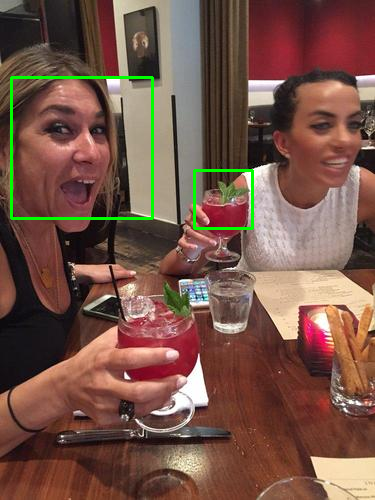
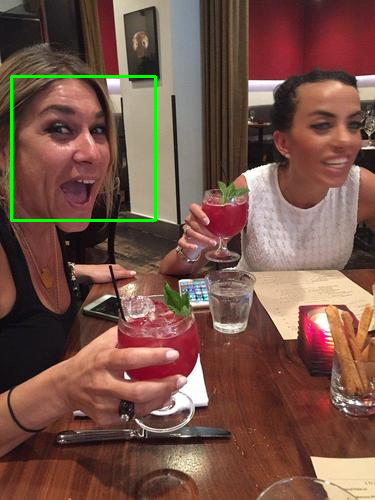
made one modified function for face detection with minimum error as possible tried avarage values of target parameters

Changed region(s): [[0.0293, 0.15, 0.44, 0.45], [0.4987, 0.33, 0.6747, 0.48]]

diff --git a/faceDetect1.py b/faceDetect1.py
@@ -171,6 +171,40 @@ def image2(colorimg,grayimg):
 		cv2.imshow("Faces found" ,colorimg)
 		cv2.imwrite("face 2.png",colorimg)
 		cv2.waitKey(0)
+# General function modified for getting all faces
+# face detection function
+# input : 
+#--------
+# fi : target imges stack 
+# gi : target images stack in gray scale
+# =====================
+# output:
+# -------
+# display imges with green fram in the detected imges
+# Helper link :
+# https://realpython.com/blog/python/face-recognition-with-python/
+def modifiedfaceFinder(fi,gi):
+	cascPath = "/home/rana/Desktop/yelp/faceDetection/FaceDetect/haarcascade_frontalface_default.xml"
+	# Create the haar cascade
+	faceCascade = cv2.CascadeClassifier(cascPath)
+	# Loop on the images stack
+	for i,item in enumerate (gi):
+		# Detect faces in the image
+		faces = faceCascade.detectMultiScale(
+		    item,
+		    scaleFactor=1.03,
+		    minNeighbors= 6,
+		    minSize=(30, 30),
+		    flags = cv2.cv.CV_HAAR_SCALE_IMAGE
+		)
+		print "Found {0} faces!".format(len(faces))
+		# Draw a rectangle around the faces
+		for (x, y, w, h) in faces:
+		    cv2.rectangle(fi[i], (x, y), (x+w, y+h), (0, 255, 0), 2)
+		cv2.imshow("Faces found" ,fi[i])
+		cv2.imwrite("face {0}.png".format(i),fi[i])
+		cv2.waitKey(0)
+
 # main function
 def main():	
 	# load face imgs
@@ -185,4 +219,6 @@ def main():
 	#image7(faceImgs[7],grayfaces[7])
 	# costumizations on image 2
 	#image2(faceImgs[2],grayfaces[2])
+	# make general function for all images modified
+	modifiedfaceFinder(faceImgs,grayfaces)
 main()
